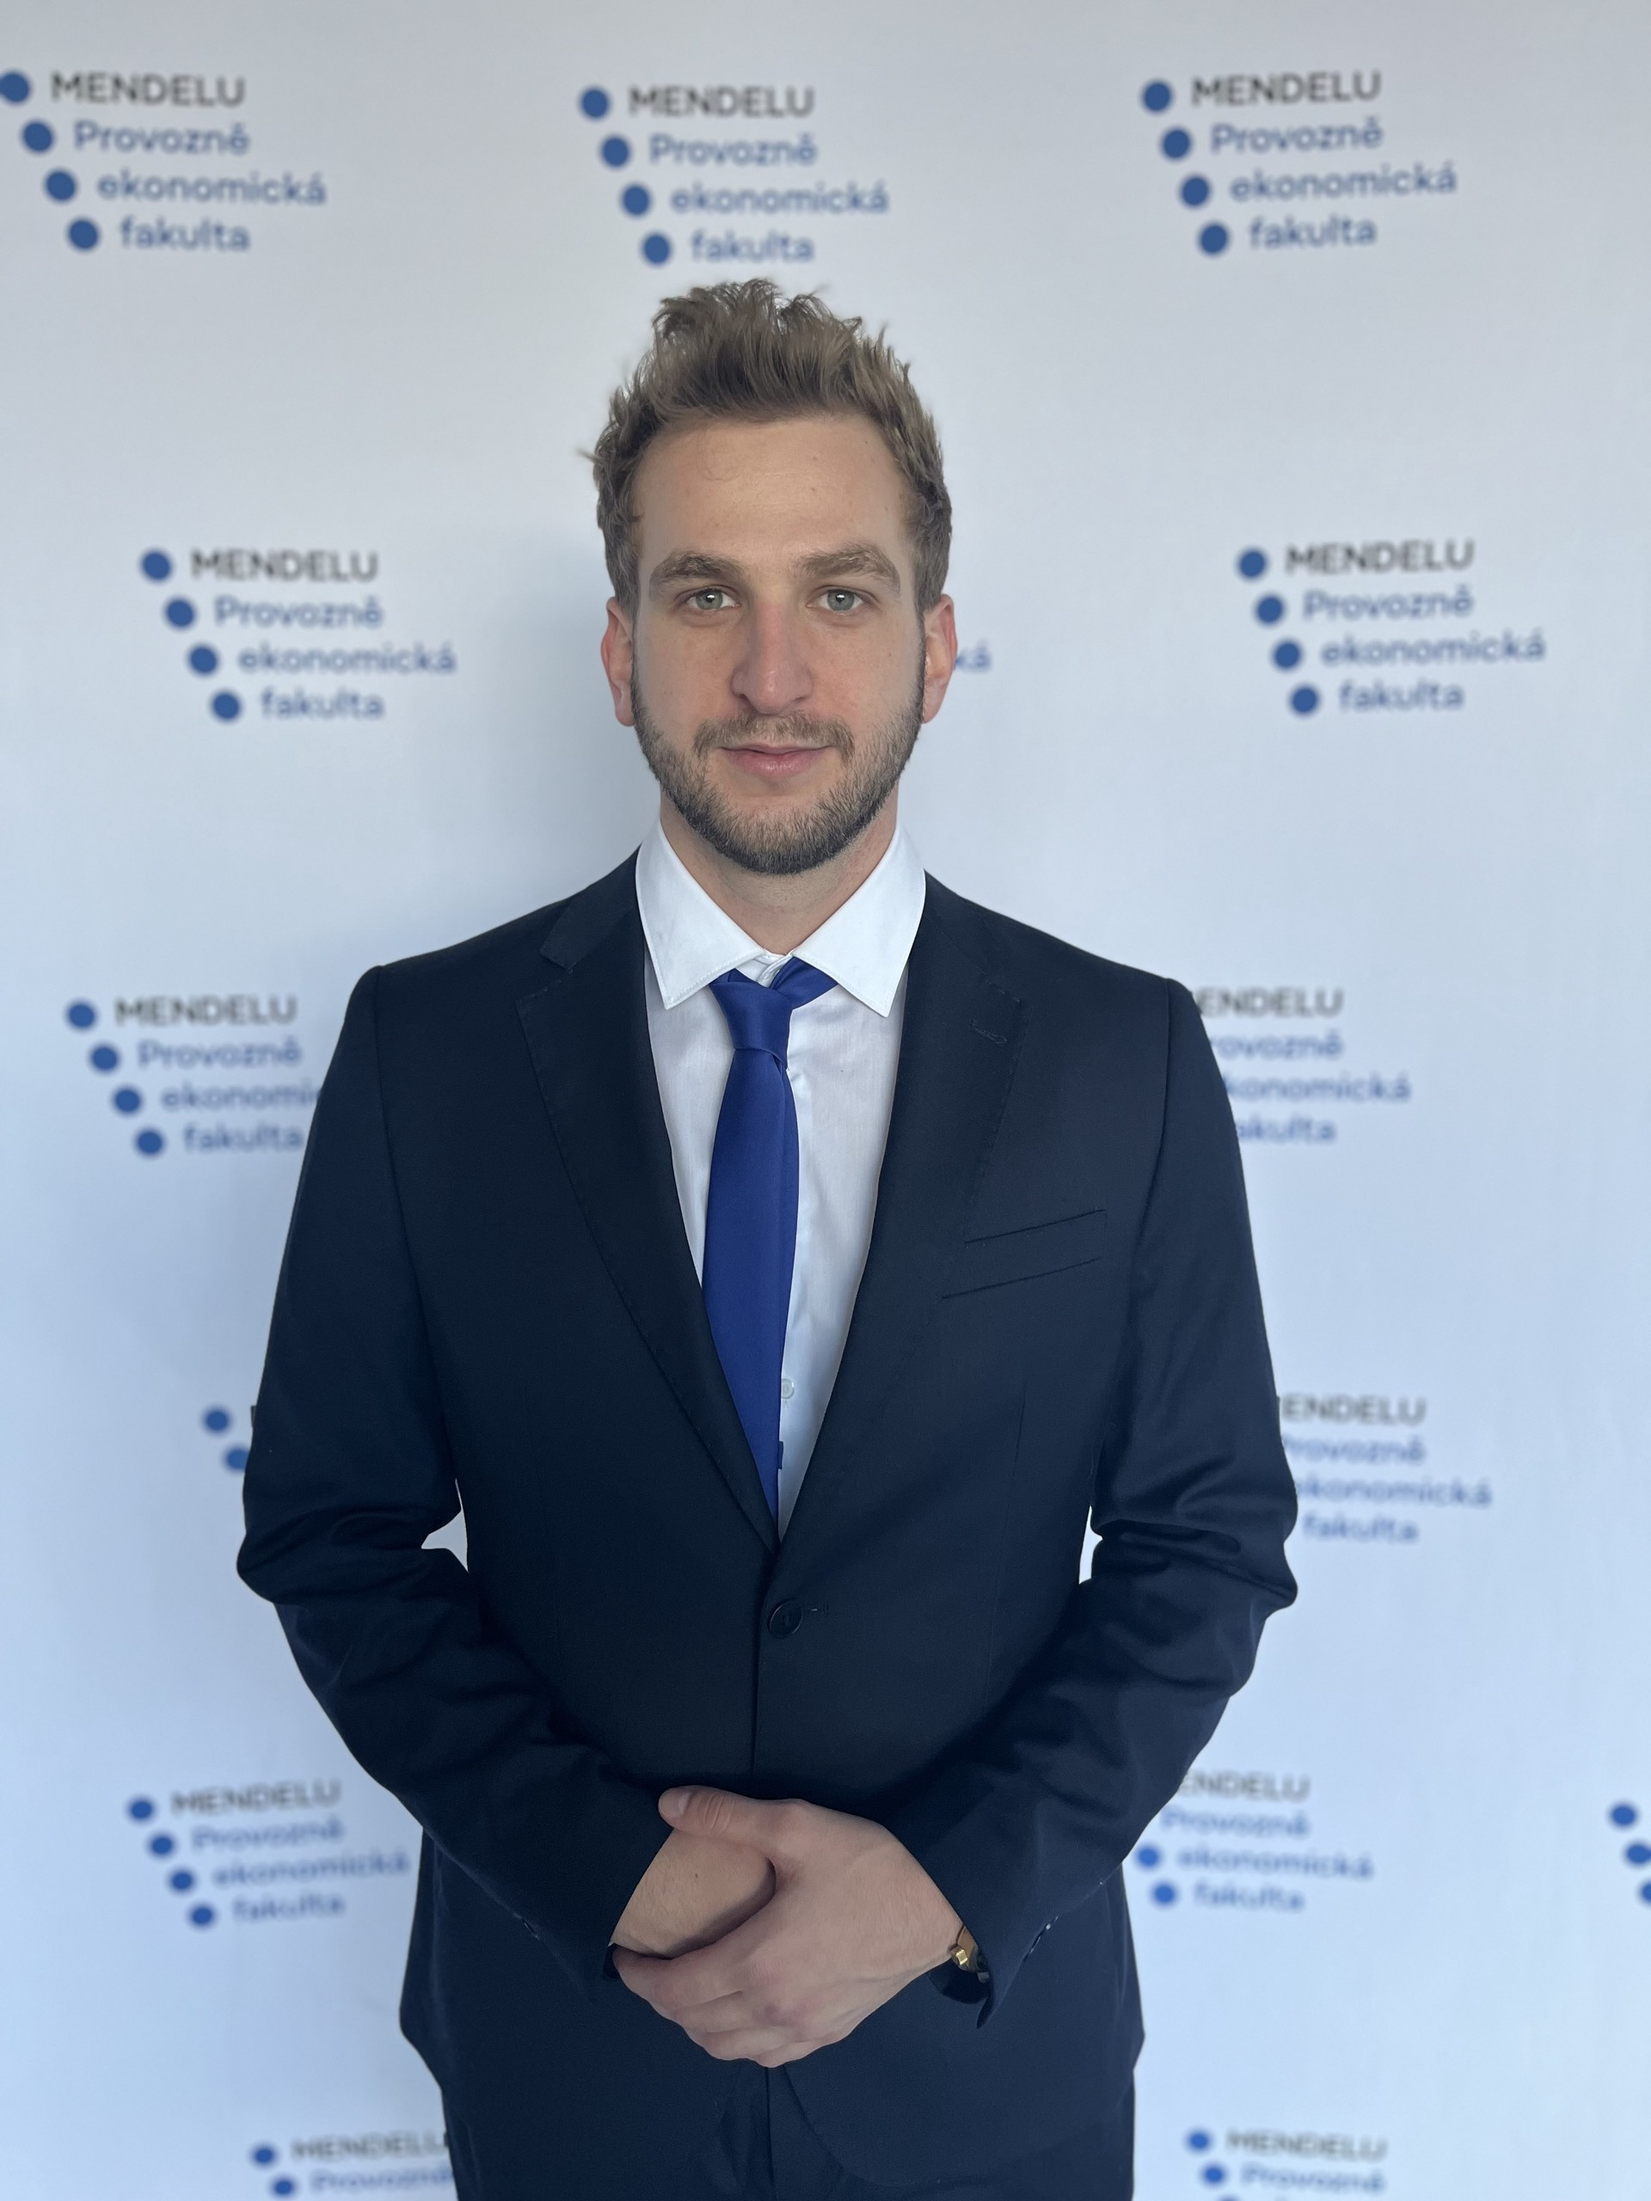
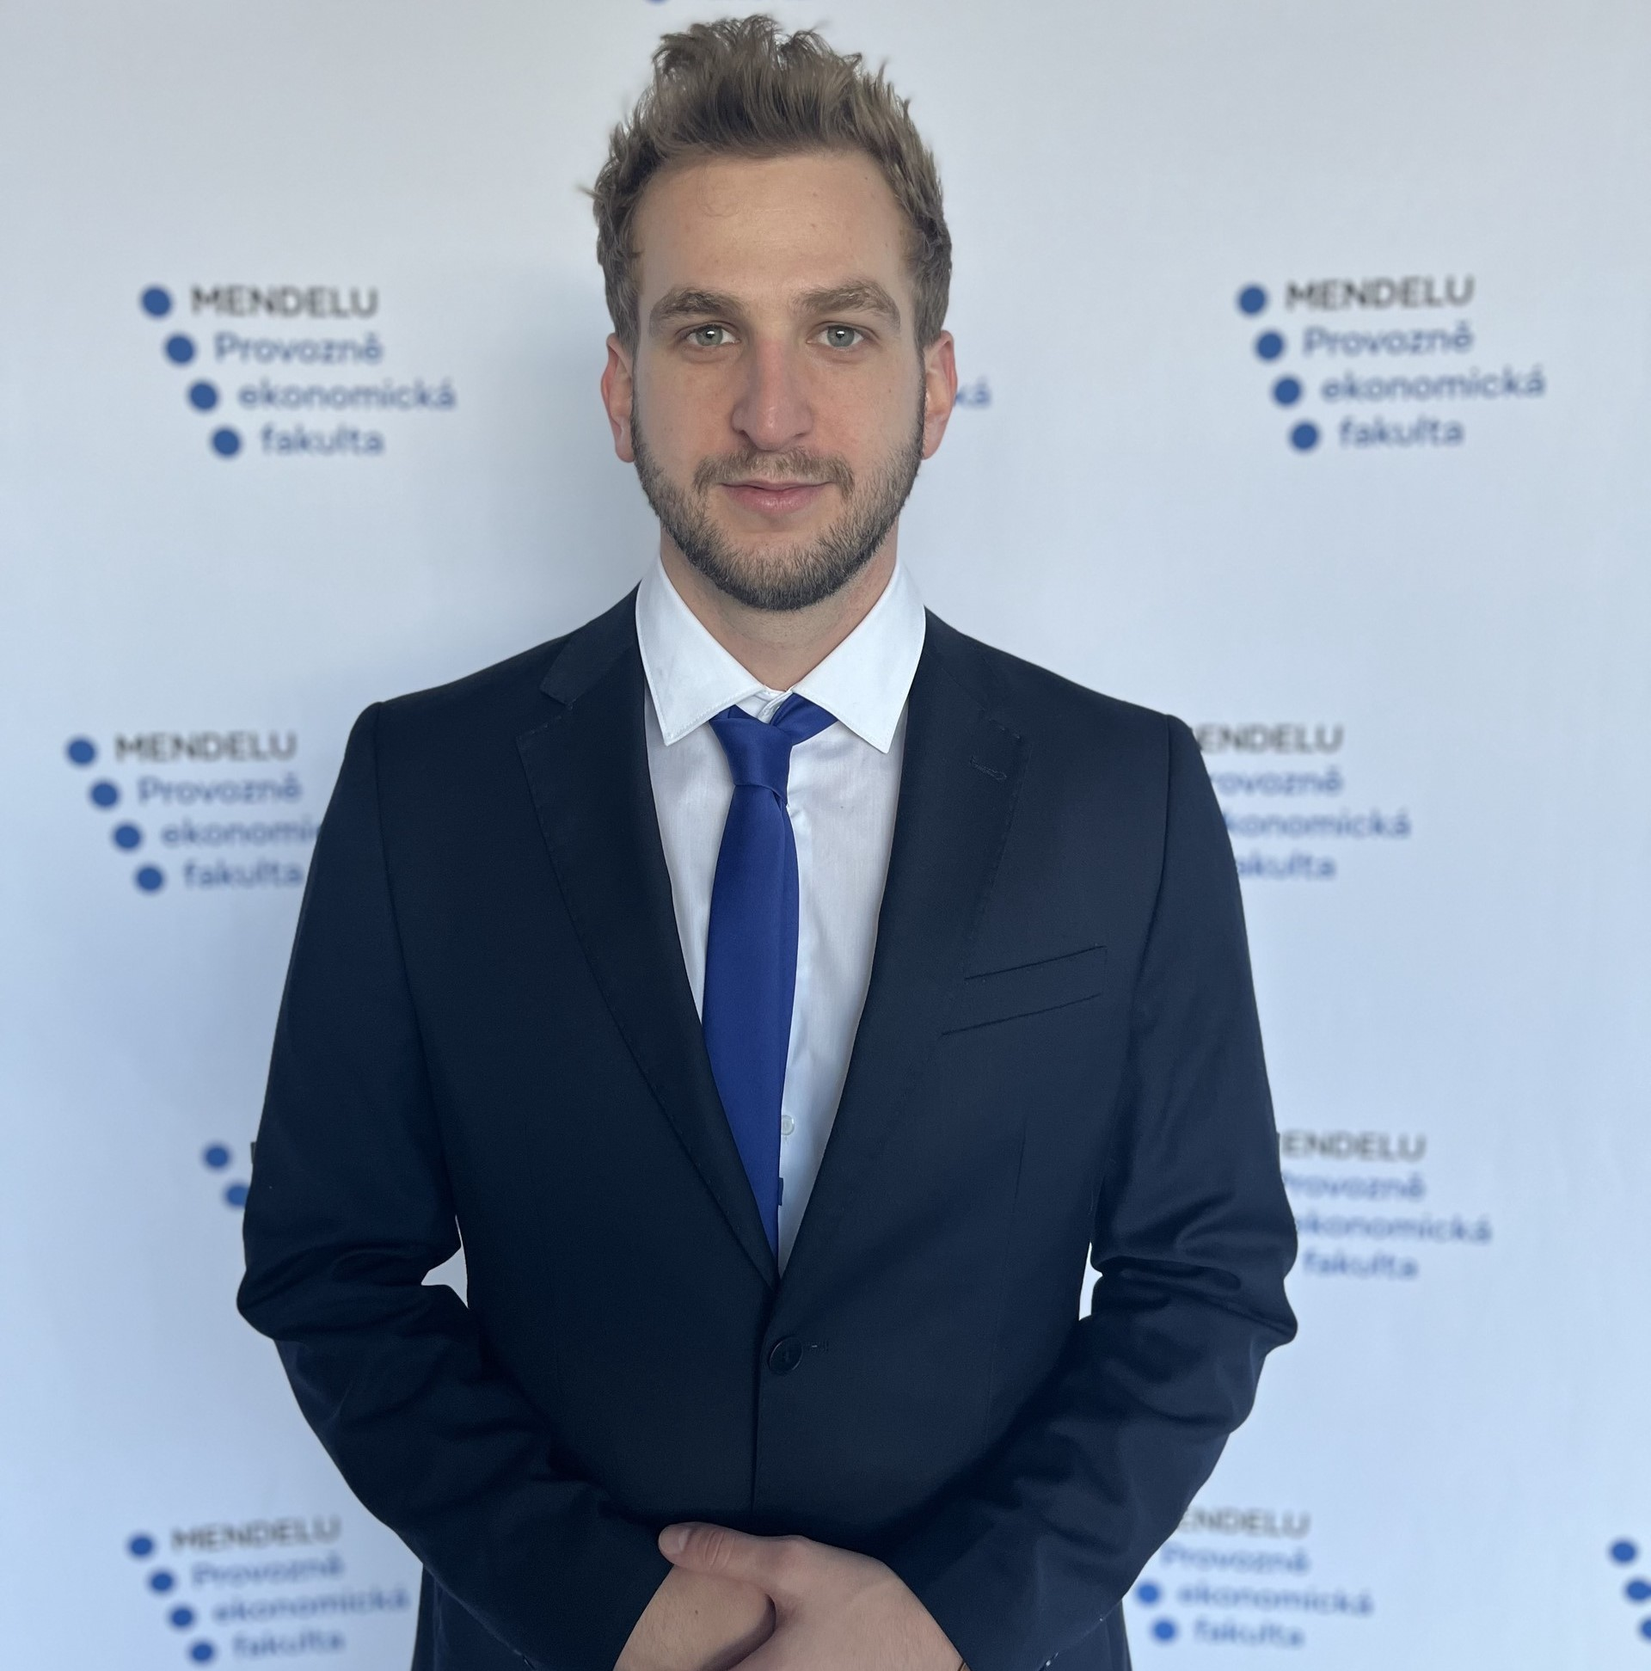
TMVS: Interactive elements, buttons, adjustments, texts

diff --git a/src/components/AboutMe/AboutData.ts b/src/components/AboutMe/AboutData.ts
@@ -1,8 +1,6 @@
-export const aboutHeading: string = "Hello, I am Tomáš Najnar, a frontend engineer and passionate web and mobile app developer with modern design. My goal is to combine innovative technology with aesthetically pleasing design to create apps that not only fulfill their purpose, but also provide a great user experience.";
+export const aboutHeading: string = "Hello, I am Tomáš Najnar, frontend engineer and passionate web and mobile app developer with modern design. I like new things and I enjoy creating innovative projects. My focus is to create apps that are modern, contain interactive elements and are user-friendly.";
 
-export const middleDescription: string = "I use my creativity and skills to create durable, scalable and user-friendly solutions. I have a passion for modern technology and am constantly striving to push my skills further.";
-
-export const aboutMyLife = "Outside of the digital design world, I love spending time at the gym. Working out not only brings me joy, but also helps me maintain better discipline as a developer. I believe that discipline and determination are key to achieving excellence not only in exercise but also in the world of development.";
+export const aboutMyLife = "Outside of the digital world, I spend a lot of time at the gym and with friends. Exercise in the gym not only brings me joy, but also helps me maintain better discipline as a developer. I believe that discipline and determination are the keys to achieving excellence not only in exercise but also in the world of development.";
 
 export const aboutTitle: string = "About me";
 
@@ -10,6 +8,6 @@ export const aboutSchool: string = "Bachelor's degree from Mendel University in 
 
 export const education: string = "Education";
 
-export const name: string = "Tomas Najnar";
+export const name: string = "Tomáš Najnar";
 
 export const aboutWork: string = "Frontend Developer";

diff --git a/src/styles/globals.css b/src/styles/globals.css
@@ -19,6 +19,8 @@
     @apply flex items-center justify-center;
     @apply self-start py-3 px-4 w-full text-black rounded-lg sm:w-contactButton;
     @apply text-white dark:text-black;
+    @apply desktop:border-4 border-transparent hover:border-yellow dark:hover:border-white;
+    @apply hover:rounded-3xl;
   }
 
   .greeting {
@@ -39,7 +41,16 @@
   }
 
   .socialIcon {
-    @apply hover:fill-gray-light-modeText2 dark:hover:fill-white;
+    @apply hover:fill-black dark:hover:fill-white;
+  }
+
+  /* #endregion */
+
+}
+
+@layer utilities {
+  .default-transition {
+    @apply transform transition-all duration-300 ease-in-out;
   }
 
   .svg > circle {
@@ -73,12 +84,35 @@
     }
   }
 
-  /* #endregion */
-
-}
-
-@layer utilities {
-  .default-transition {
+  .introBtn {
+    @apply relative py-2 w-full desktop:w-max desktop:px-12;
+    @apply cursor-pointer;
+    @apply border-3 dark:border-2 text-center rounded-lg md:text-xl;
+    @apply text-black dark:text-yellow border-yellow-light-1 dark:border-white;
+  }
+  
+  .introBtn1 {
+    @apply z-1;
+    @apply border-3 border-yellow dark:border-white;
+  }
+  
+  .introBtn1:after {
+    @apply absolute bottom-0 left-0 -z-1;
+    @apply w-full h-0 content-[""] rounded-md;
+    @apply  bg-gray-light-1 dark:bg-gray-dark-1;
     @apply transform transition-all duration-300;
   }
+  
+  .introBtn1:hover {
+    @apply text-black dark:text-yellow;
+  }
+  
+  .introBtn1:hover:after {
+    @apply top-0 desktop:h-full;
+  }
+  
+  .introBtn1:active {
+    top: 2px;
+  }
+
 }

diff --git a/src/components/Contact/components/ContactForm.tsx b/src/components/Contact/components/ContactForm.tsx
@@ -2,10 +2,11 @@ import { ChangeEvent, ReactElement } from "react";
 import { EFormStatus } from "@/utils/enums";
 import { TContactData } from "@/utils/types";
 import { Form } from "formik";
-import { email, emailPlaceHolder, emailTitle, name, namePlaceHolder, nameTitle, sendMessage, textArea } from "../ContactData";
+import { email, emailPlaceHolder, emailTitle, errorMessage, name, namePlaceHolder, nameTitle, sendCorrect, sendMessage, textArea } from "../ContactData";
 import Loader from "@/components/ui/Loader";
 import { FaCheck } from "react-icons/fa";
 import clsx from "clsx";
+import { IoMdClose } from "react-icons/io";
 
 interface IProps {
   formStatus: EFormStatus;
@@ -67,17 +68,20 @@ const ContactForm = ({
     </label>
 
     {formStatus === EFormStatus.ERROR && (
-      <div>Alert, error</div>     // TODO Alert component
+      <div className="flex items-center gap-3 text-xl text-red-700">
+        <span>{errorMessage}</span>
+        <IoMdClose className="text-red-700" />
+      </div>
     )}
 
     {formStatus === EFormStatus.SENT ? (
       <div className="flex items-center gap-3 text-xl text-green-700">
-        <span>Email was sent!</span>
+        <span>{sendCorrect}</span>
         <FaCheck className="text-green-700" />
       </div>
     ) : (
       <button
-        className={clsx("button", "bg-gray-dark-1 dark:bg-yellow")}
+        className={clsx("default-transition", "button", "bg-gray-dark-1 dark:bg-yellow")}
         disabled={isSubmitting}
         type="submit"
       >

diff --git a/src/components/AboutMe/AboutMe.tsx b/src/components/AboutMe/AboutMe.tsx
@@ -1,28 +1,26 @@
 import { ReactElement } from "react";
-import { aboutTitle, education, aboutSchool, aboutHeading, aboutMyLife, middleDescription } from "./AboutData";
 import { Avatar } from "./components";
+import { aboutTitle, education, aboutSchool, aboutHeading, aboutMyLife } from "./AboutData";
 
 const AboutMe = (): ReactElement => (
   <section className="grid desktop:grid-cols-2 gap-6" id="about">
-    {/* TODO */}
     <div className="hidden desktop:flex justify-center justify-self-center w-fit max-h-aboutMeImg overflow-hidden text-center rounded-md shadow-lg">
-      <img src="/mezk.jpg" alt="me" className=" object-contain w-full h-full" />
+      <img src="/me.jpg" alt="me" className=" object-contain w-full h-full" />
     </div>
 
-    <div>
+    <div className="flex flex-col">
       <h2 className="pb-4 text-black dark:text-yellow text-3xl">
         {aboutTitle}
       </h2>
 
       <Avatar />
 
-      <div className="pt-5 text-gray-light-modeText2 dark:text-gray">
+      <div className="pb-10 desktop:pb-0 pt-5 text-gray-light-modeText2 dark:text-gray">
         <p>{aboutHeading}</p> <br/>
-        <p>{middleDescription}</p> <br/>
         <p>{aboutMyLife}</p>
       </div>
 
-      <ul className="pt-4 list-disc">
+      <ul className="desktop:pb-8 mt-auto list-disc">
         <h4 className="mb-2 w-fit text-lg font-semibold">
           {education}
         </h4>

diff --git a/src/components/Projects/components/Project.tsx b/src/components/Projects/components/Project.tsx
@@ -17,7 +17,7 @@ const Project = ({
   style,
   url,
 }: TProject): ReactElement => url ? (
-  <Link className="projectsWrapper" href={url} target="_blank">
+  <Link className={clsx("default-transition", "projectsWrapper")} href={url} target="_blank">
     <div className="imgWrapper">
       <img alt={alt} className="rounded-lg" src={path} />
       {!!ViewIcon && <ViewIcon className="viewIcon" />}
@@ -25,7 +25,7 @@ const Project = ({
       <div className="mask" />
     </div>
 
-    <span className={styleAbout}>
+    <span className={clsx(styleAbout, "pt-1")}>
       {about}
     </span>
 
@@ -35,7 +35,7 @@ const Project = ({
     </div>
   </Link>
 ) : (
-  <div className="projectsWrapper">
+  <div className={clsx("default-transition", "projectsWrapper")}>
     <div className="imgWrapper">
       <img alt={alt} className={clsx(style, "rounded-lg")} src={path} />
       <span className="absolute left-1/2 top-1/2 -translate-x-1/2 -translate-y-1/2 w-full text-black text-xl text-center font-bold">
@@ -49,7 +49,7 @@ const Project = ({
       {about}
     </span>
 
-    <div>
+    <div className="mt-auto">
       <span className={styleUsed}>{used}</span>
       <TechStack className="flex gap-3 py-2" />
     </div>

diff --git a/src/styles/components.css b/src/styles/components.css
@@ -50,13 +50,6 @@
   @apply text-custom-title sm:text-5xl desktop:text-8xl;
 }
 
-.buttonContact {
-  @apply block py-2 w-full desktop:w-max desktop:px-12;
-  @apply cursor-pointer;
-  @apply border-3 dark:border-2 text-center rounded-lg md:text-xl;
-  @apply text-black dark:text-yellow border-yellow-light-1 dark:border-white;
-}
-
 /* #endregion */
 
 /* #region Projects */
@@ -68,7 +61,7 @@
 }
 
 .imgWrapper {
-  @apply relative w-full h-full;
+  @apply relative w-full;
 }
 
 .viewIcon {
@@ -78,7 +71,7 @@
 }
 
 .projectsWrapper:where(:hover) > .imgWrapper .viewIcon {
-  @apply block cursor-pointer;
+  @apply desktop:block cursor-pointer;
 }
 
 .mask {
@@ -86,7 +79,7 @@
 }
 
 .projectsWrapper:where(:hover) > .imgWrapper .mask {
-  @apply bg-gray/40 blur-sm;
+  @apply desktop:bg-gray/40 blur-sm;
 }
 
 .description {
@@ -95,7 +88,7 @@
 }
 
 .projectsWrapper:where(:hover) > .imgWrapper .description {
-  @apply block;
+  @apply desktop:block;
 }
 
 /* #endregion */

diff --git a/tailwind.config.ts b/tailwind.config.ts
@@ -1,4 +1,4 @@
-import type { Config } from 'tailwindcss'
+import type { Config } from 'tailwindcss';
 
 const config: Config = {
   content: [
@@ -19,7 +19,7 @@ const config: Config = {
         gray: {
           DEFAULT: '#F0F0F0',  // color for dark mode text
           'light-1': '#D9D9D9', // accessories, light mode
-          'light-modeText': '#000',  //334155, color for light mode text
+          'light-modeText': '#000',  // color for light mode text
           'light-modeText2': '#334155',  // color for light mode text
           'light-mode-2': '#8d8d8d',  // light mode gradient
           'dark-1': '#323232',  // accessories, dark mode
@@ -63,5 +63,6 @@ const config: Config = {
     },
   },
   plugins: [],
-}
-export default config
+};
+
+export default config;

diff --git a/src/components/layout/Header/components/ThemeSwitcher.tsx b/src/components/layout/Header/components/ThemeSwitcher.tsx
@@ -2,6 +2,7 @@
 import { ReactElement, useEffect, useState } from "react";
 import { useTheme } from "next-themes";
 import { MdDarkMode, MdLightMode } from "react-icons/md";
+import clsx from "clsx";
 
 const ThemeSwitcher = (): ReactElement => {
   const [mounted, setMounted] = useState(false);
@@ -16,7 +17,7 @@ const ThemeSwitcher = (): ReactElement => {
       {mounted &&  
         <button
           onClick={(): void => setTheme(resolvedTheme === 'dark' ? 'light' : 'dark')}
-          className="transition duration-300 ease-in-out transform hover:scale-110"
+          className={clsx("default-transition", "hover:scale-110")}
         >
           {resolvedTheme === 'dark' ? (
             <MdLightMode className="w-8 h-8 sm:w-9 sm:h-9 desktop:w-10 desktop:h-10" />

diff --git a/src/components/Projects/ProjectsData.ts b/src/components/Projects/ProjectsData.ts
@@ -6,7 +6,7 @@ export const projectTitle: string = 'Projects';
 
 export const myProjects: Array<TProject> = [
   {
-    about: "I have been working on project RegioJet Hotels. On my responsibility was",
+    about: "I worked on the RegiojetHotels project, where I was responsible for creating the website and now I'm doing the maintenance.",
     alt: "regiojethotels.cz",
     id: 44,
     icon: GrView,
@@ -14,7 +14,7 @@ export const myProjects: Array<TProject> = [
     url: ERoutes.REGIOJET_HOTELS
   },
   {
-    about: "I have been working on project RegioJet Hotels. On my responsibility was",
+    about: "I am working on the new-studentagency.cz project, which is not yet published.",
     alt: "new-studentagency.cz",
     description: "Comming soon...",
     id: 45,

diff --git a/src/components/layout/Header/Header.tsx b/src/components/layout/Header/Header.tsx
@@ -29,17 +29,16 @@ const Header = (): ReactElement => {
           <nav className="wrapper">
             {headerLinks.map(({coordinates, id, path, title}) => 
               <Link
-                className="headerItem"
+                className="headerItem default-transition"
                 duration={SCROLL_DURATION}
                 key={id}
                 offset={coordinates} 
                 smooth
                 spy={true} 
                 to={path}
+                type="button"
               >
-                <span className="w-full h-full p-2 bg-white dark:bg-black">
-                  {title}
-                </span>
+                {title}
               </Link>
             )}
 

diff --git a/src/components/Introduction/Introduction.tsx b/src/components/Introduction/Introduction.tsx
@@ -31,13 +31,13 @@ const Introduction = (): ReactElement => (
         />
       </h1>
 
-      <p className="pb-10 desktop:w-9/12 text-base sm:text-xl text-gray-light-modeText dark:text-gray">
+      <p className="pb-10 desktop:w-9/12 text-base sm:text-xl text-gray-light-modeText2 dark:text-gray">
         {description}
       </p>
 
       <SocialIcons className="pb-9" classNameSize="w-6 h-6 md:w-8 md:h-8 desktop:w-10 desktop:h-10 hover:scale-110" />
       <Link
-        className="buttonContact"
+        className="introBtn introBtn1"
         duration={SCROLL_DURATION}
         offset={CONTACT_COORDINATES}
         smooth

diff --git a/src/components/Contact/ContactData.ts b/src/components/Contact/ContactData.ts
@@ -6,6 +6,9 @@ export const contactTitle: string = "Contact";
 
 export const sendMessage: string = "Send Message";
 
+export const sendCorrect: string = "Email was sent!";
+export const errorMessage: string = "Something went wrong. Email did not send!";
+
 export const emailTitle: string = "Email:*";
 export const email: string = 'email';
 export const emailPlaceHolder: string = "Enter your email";
@@ -19,4 +22,3 @@ export const textArea: TInputData = {
   name: "message",
   placeHolder: "Type your message"
 };
-
